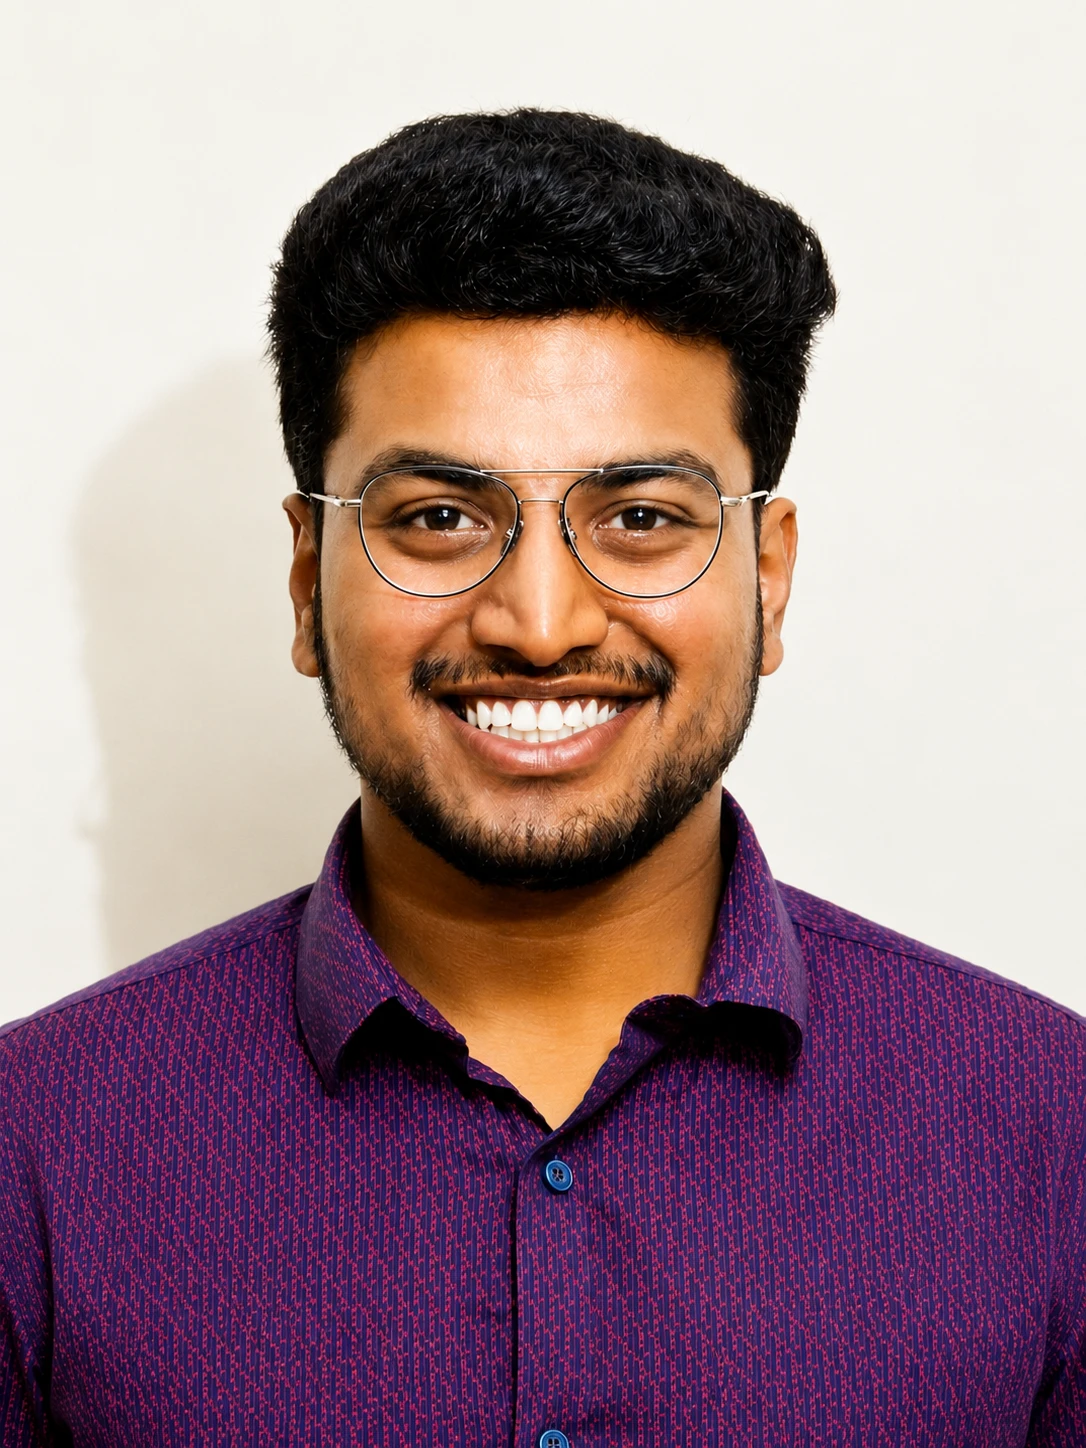
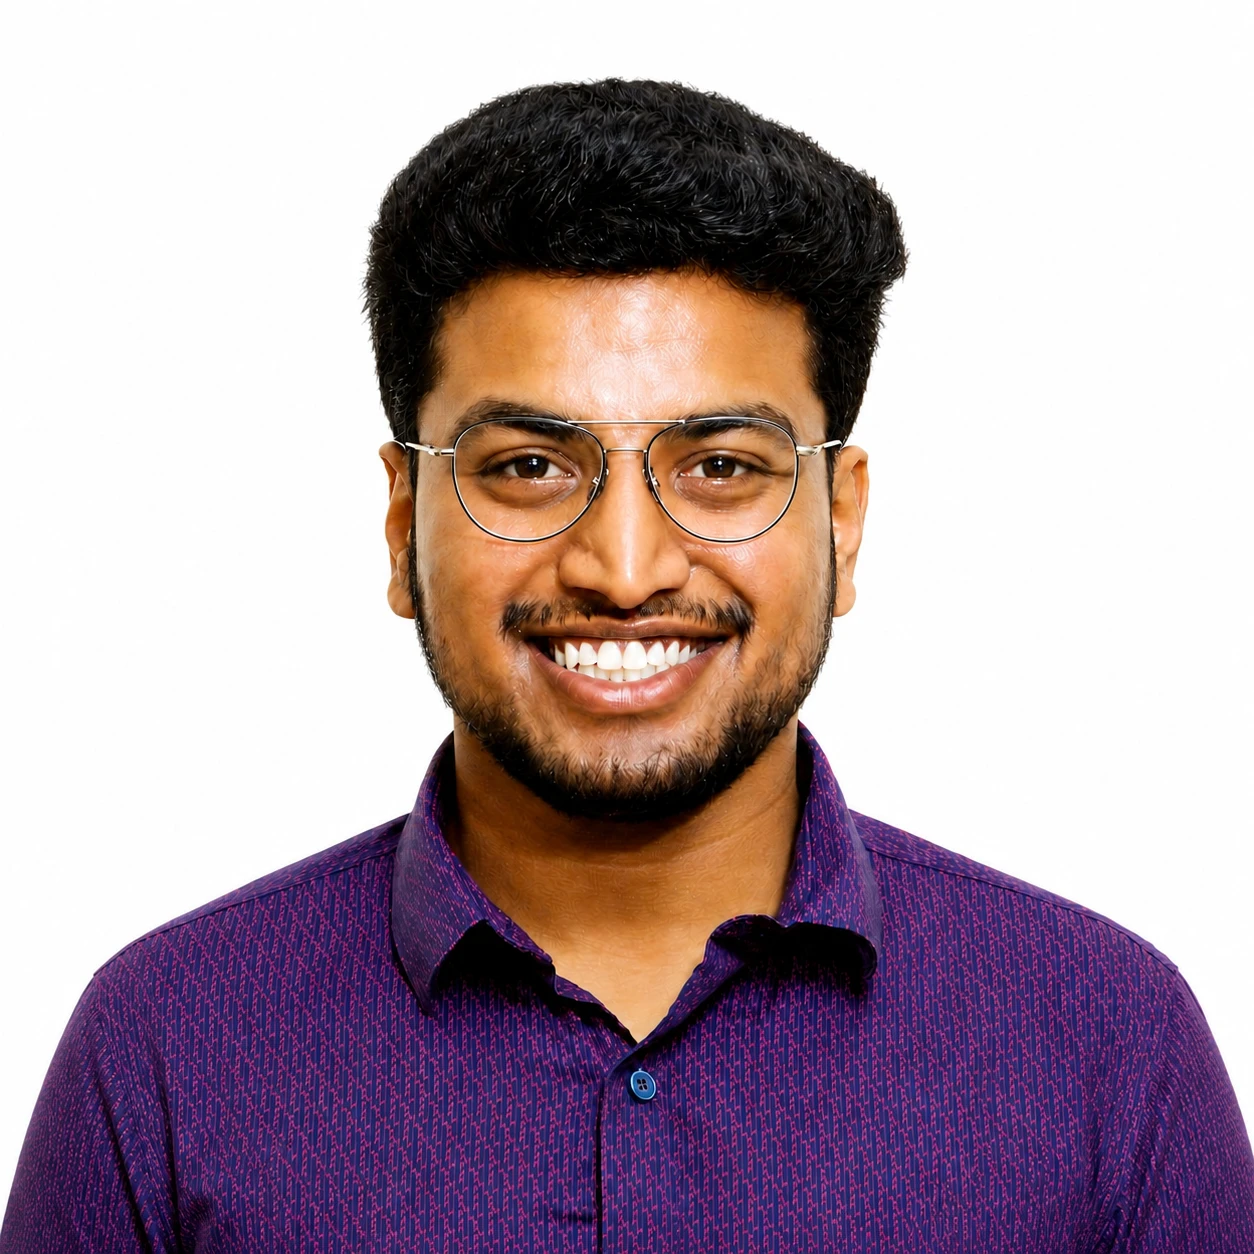
Light-mode photo: new white-bg image, circular (no oval), remove blue ring
- Replace profile-light.webp with white-background portrait (square framing, matches dark)
- Force circular crop via aspect-ratio on the image (fixes oval in light mode)
- Remove gradient/blue ring border around the photo; dark mode unchanged

diff --git a/index.html b/index.html
@@ -210,12 +210,11 @@
 
         .hero-aside { display: flex; flex-direction: column; gap: 18px; }
         .portrait-wrap {
-            width: 290px; max-width: 100%; aspect-ratio: 1; padding: 4px; margin: 0 auto;
-            border-radius: 50%; background: var(--grad);
+            width: 290px; max-width: 80%; aspect-ratio: 1; margin: 0 auto;
         }
         .portrait {
-            width: 100%; height: 100%; border-radius: 50%; object-fit: cover;
-            display: block; background: var(--bg-2);
+            width: 100%; aspect-ratio: 1; border-radius: 50%; object-fit: cover;
+            display: block;
         }
         .term {
             background: color-mix(in srgb, var(--bg-2) 78%, transparent);